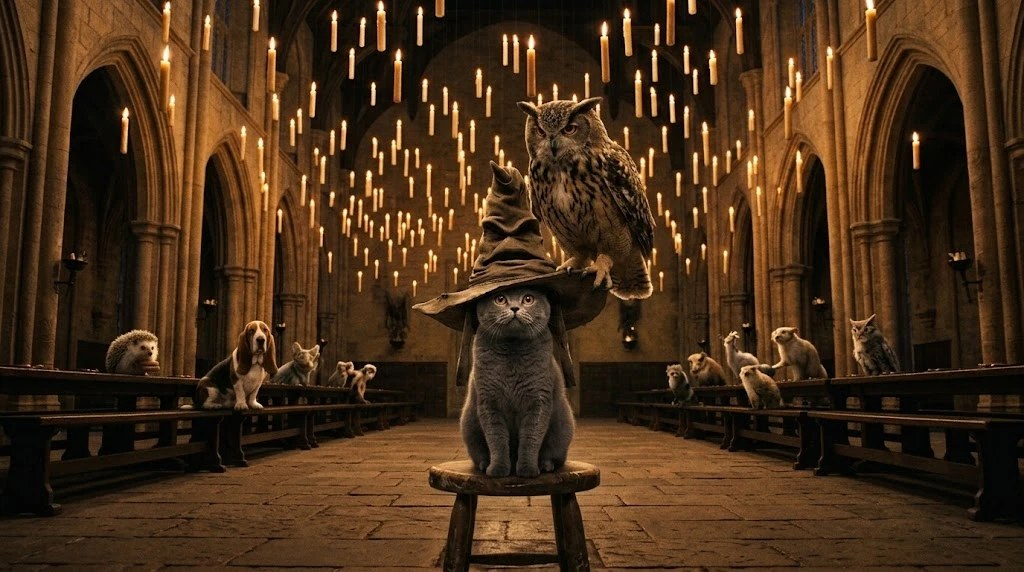
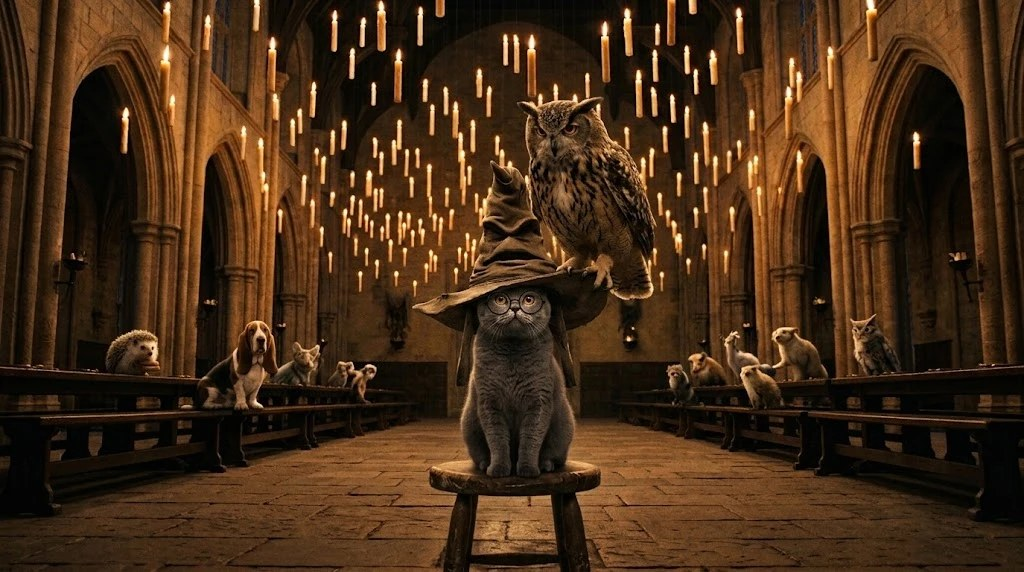
Harry Pawter: beeld p06a (met brilletje) en p06b
Claude-Session: https://claude.ai/code/session_0123oqNM6CTANJdbukSW6oWF

diff --git a/series/pawter/ep1/PROMPTS.md b/series/pawter/ep1/PROMPTS.md
@@ -103,7 +103,7 @@ Characters in this shot: Professor Otto (a large, wise old eagle-owl with fluffy
 
 _Marcel zegt:_ Midden in de zaal lag een oude, versleten hoed op een kruk. Professor Otto zette hem op mijn kop, en de hoed begon te praten, met een stem als een krakende kast. Hmm, zei hij. Veel moed, nog meer honger, en een verrassend talent om overal te slapen.
 
-## [ ] p06b.jpg
+## [x] p06b.jpg
 
 ```
 A long table at the side of the hall where a row of different animal students, cats, a badger and a sheep, sleep with their heads on the table, while the animals at the other tables cheer. Same characters as in the cast photo. A real photograph, like a still from a live-action fantasy film, magical but realistic light, shallow depth of field, subtle film grain, 16:9 landscape. All characters are real animals at their real size, unless the shot says otherwise. Not a painting, not digital art, not CGI. No people, no text, no letters.
